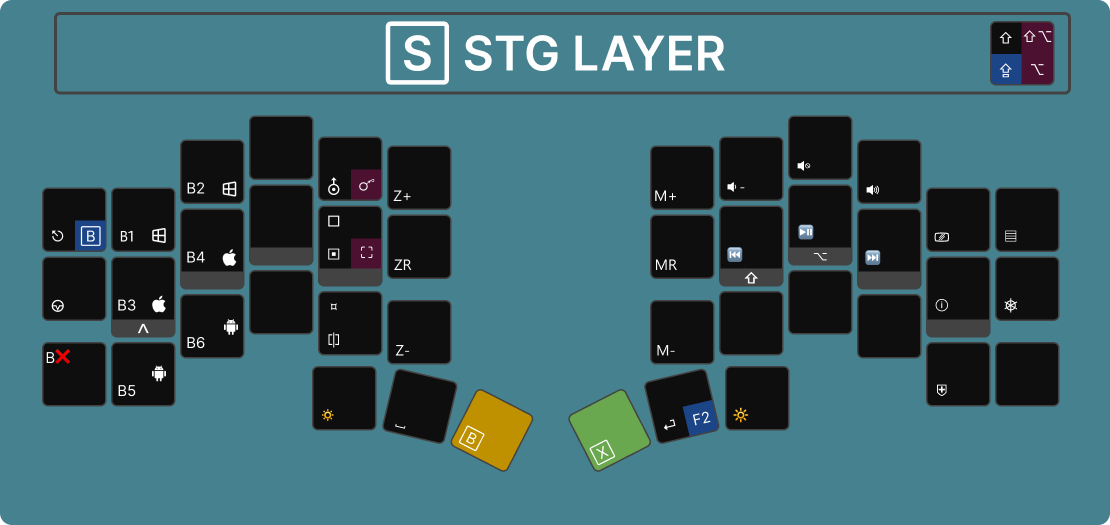
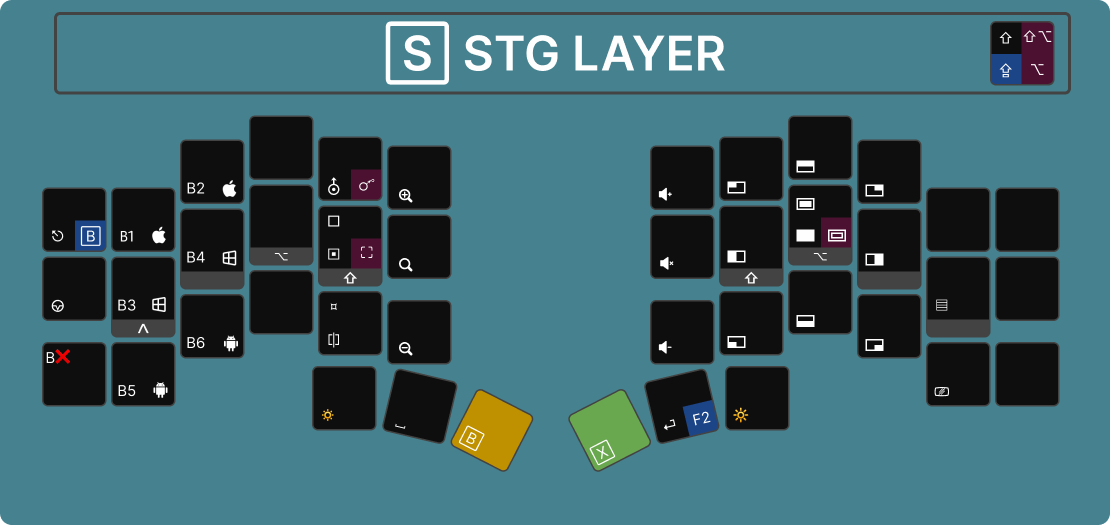
feat: macOS STG layer configuration (#39)
* change help keyboard layout
* create a new keymap by name
* fix alt modifier on STG layer
* fix application window position key
* remove key name helper

diff --git a/docs/macos.md b/docs/macos.md
@@ -28,7 +28,7 @@ Icons used to describe some modifiers and actions
 | <kbd>⌘</kbd> | Command                                                      |
 | <kbd>⌃</kbd> | Control                                                      |
 | <kbd>⌥</kbd> | Alt                                                          |
-| <kbd>⇧</kbd> | Shift                                                        |                                                    
+| <kbd>⇧</kbd> | Shift                                                        |
 | <kbd>🄰</kbd> | Caps Lock                                                    |
 | <kbd>⎋</kbd> | Esc                                                          |
 | <kbd>↹</kbd> | Tab                                                          |
@@ -51,7 +51,7 @@ Icons used to describe some modifiers and actions
 | <kbd>▷</kbd>   | <kbd>⇪↹</kbd>               | Left (terminal autocompletion)                        |
 | <kbd>🄰</kbd>   | <kbd>⇧</kbd>+<kbd>⌫</kbd>   | Caps lock                                             |
 | <kbd>⇧⇧</kbd>  | <kbd>L⇧</kbd>+<kbd>R⇧</kbd> | [Caps word](https://zmk.dev/docs/behaviors/caps-word) |
-| <kbd>^^</kbd>  | <kbd>L^</kbd>+<kbd>R^</kbd> | Cancel caps                                           |
+| <kbd>⌘⌘</kbd>  | <kbd>L^</kbd>+<kbd>R^</kbd> | Cancel caps                                           |
 
 ### Files
 
@@ -60,12 +60,11 @@ Icons used to describe some modifiers and actions
 | <kbd>⌫</kbd> | <kbd>⌘</kbd>+<kbd>⌫</kbd>               | Move to trash           |
 | <kbd>⌫</kbd> | <kbd>⌘</kbd>+<kbd>⌥</kbd>+<kbd>⌫</kbd>  | Delete file permanently |
 
-
 ### Layers
 
 | Label          | Shortcut                    | Actions                        |
 | -------------: | --------------------------: | ------------------------------ |
-| <kbd>⌘⌘</kbd>  | <kbd>L⌘</kbd>+<kbd>R⌘</kbd> | Show current layout on screen  |
+| <kbd>⌥⌥</kbd>  | <kbd>L⌘</kbd>+<kbd>R⌘</kbd> | Show current layout on screen  |
 
 ⇧ [Back to menu](#menu)
 
@@ -191,19 +190,10 @@ Dedicated to Bluetooth and media controls.
 | <kbd>ZR</kbd>   |                            | Zoom reset                    |
 | <kbd>ZR</kbd>   | <kbd>⇧</kbd>+<kbd>ZR</kbd> | Zoom reset VSCode             |
 | <kbd>Z-</kbd>   |                            | Zoom out                      |
-| <kbd>M+</kbd>   |                            | Magnifier in                  |
-| <kbd>MR</kbd>   |                            | Magnifier toggle/reset        |
-| <kbd>M-</kbd>   |                            | Magnifier out                 |
 | <kbd>🔅</kbd>   |                            | Bright down                   |
 | <kbd>🔆</kbd>   |                            | Bright up                     |
-| <kbd>⎚</kbd>    |                            | Fancy Zones                   |
-| <kbd>▤</kbd>    |                            | Task Manager                  |
-| <kbd>ⓘ</kbd>    |                            | System Info                   |
-| <kbd>⛨</kbd>   |                            | Security                      |
-| <kbd>⎈</kbd>    |                            | Settings                      |
-
-> [!IMPORTANT]
-> Magnifier tools required to be enabled by `setting` -> `accessibility` -> `zoom` and enabling `use keyboard shortcuts to zoom`.
+| <kbd>⎚</kbd>    |                            | Application Window            |
+| <kbd>▤</kbd>    |                            | Mission Control               |
 
 #### Tools
 
@@ -228,8 +218,5 @@ Dedicated to Bluetooth and media controls.
 | <kbd>🔊</kbd> | Volume up    |
 | <kbd>🔇</kbd> | Mute         |
 | <kbd>🔉</kbd> | Volume down  |
-| <kbd>⏮</kbd>  | Prev         |
-| <kbd>⏯</kbd>  | Play/Pause   |
-| <kbd>⏭</kbd>  | Next         |
 
 ⇧ [Back to menu](#menu)
